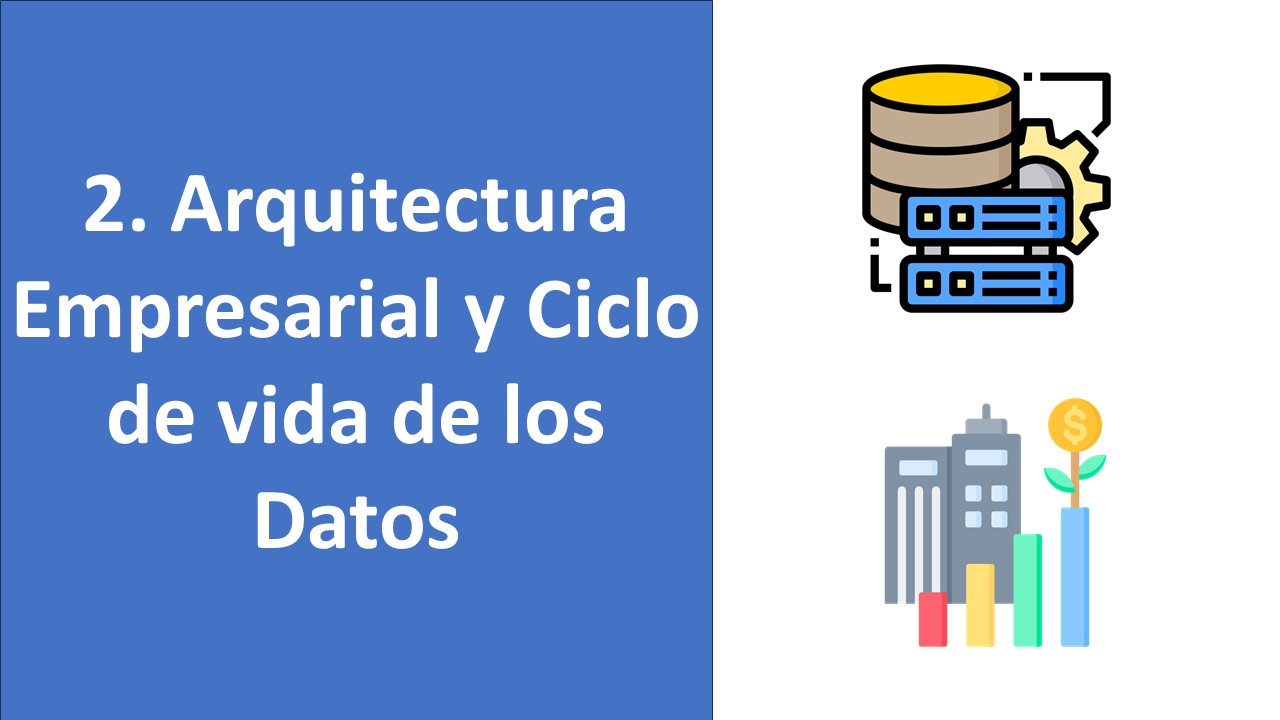
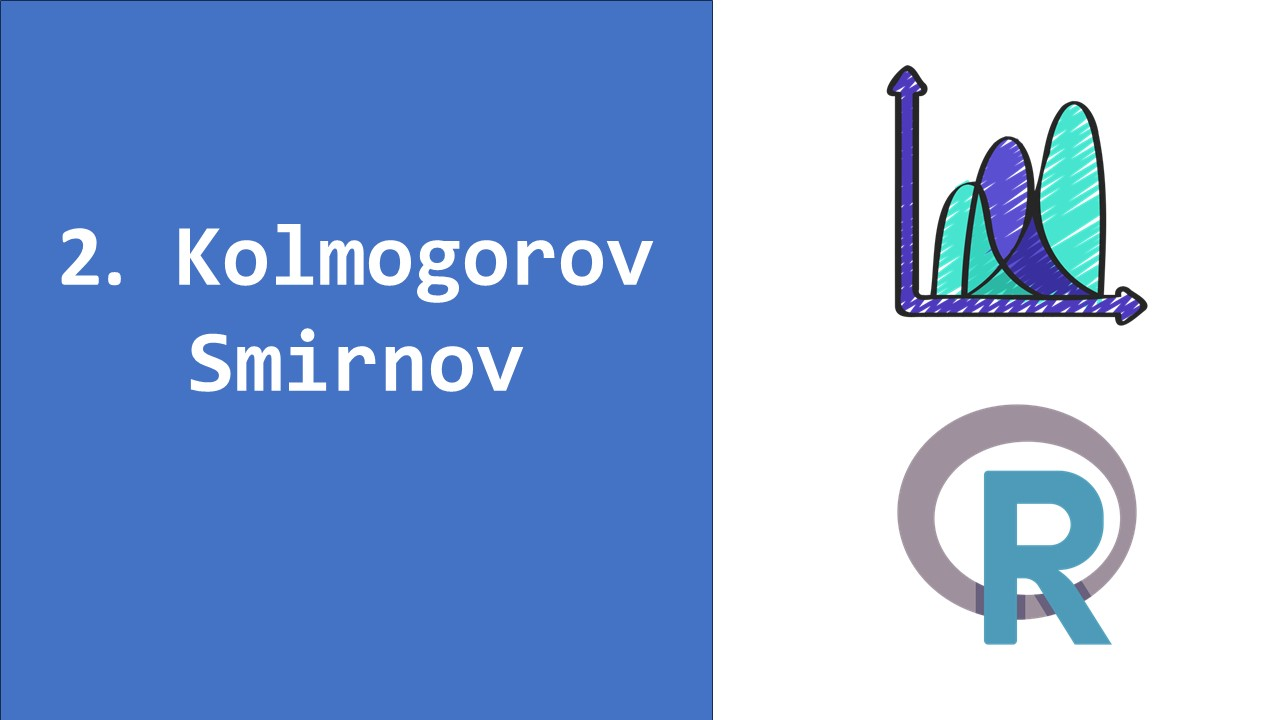
Clase 2

diff --git a/index.html b/index.html
@@ -56,7 +56,7 @@
         <div id="portfolio">
             <div class="container-fluid p-0">
                 <div class="row g-0">
-                    <div class="col-lg-4 col-sm-6">
+                    <!--<div class="col-lg-4 col-sm-6">
                         <a class="portfolio-box" href="#" onclick="redirectToGoogle();" title="Test del Signo y Wilcoxon">
                             <img class="img-fluid" src="assets/img/portfolio/thumbnails/1.jpg" alt="..." />
                             <div class="portfolio-box-caption">
@@ -64,17 +64,17 @@
                                 <div class="project-name">1. Test del signo y Wilcoxon</div>
                             </div>
                         </a>
-                    </div>
-                  <!-- <div class="col-lg-4 col-sm-6">
-                        <a class="portfolio-box" href="#" onclick="redirect2();" title="Ciclo de vida de datos">
+                    </div>-->
+                  <div class="col-lg-4 col-sm-6">
+                        <a class="portfolio-box" href="#" onclick="redirect2();" title=" Kolmogorov Smirnov">
                             <img class="img-fluid" src="assets/img/portfolio/thumbnails/2.jpg" alt="..." />
                             <div class="portfolio-box-caption">
-                                <div class="project-category text-white-50">BigData</div>
-                                <div class="project-name">2. Arquitectura empresarial y ciclo de vida de los datos</div>
+                                <div class="project-category text-white-50">No Paramétrica</div>
+                                <div class="project-name">2. Kolmogorov Smirnov</div>
                             </div>
                         </a>
                     </div>
-                      <div class="col-lg-4 col-sm-6">
+                       <!--<div class="col-lg-4 col-sm-6">
                         <a class="portfolio-box" href="#" onclick="redirect3();" title="Definiciones y GCP">
                             <img class="img-fluid" src="assets/img/portfolio/thumbnails/3.jpg" alt="..." />
                             <div class="portfolio-box-caption">
@@ -142,7 +142,7 @@
                 window.location.href = 'https://forms.gle/fofGYwcW56wMf9TJ9';
             }
             function redirect2() {
-                window.location.href = 'https://colab.research.google.com/github/jazaineam1/BigData2023_2/blob/main/2_BigData_v2.ipynb';
+                window.location.href = 'https://colab.research.google.com/github/jazaineam1/nopara/blob/main/Cuadernos/Kolmogorov_Smirnov.ipynb';
             }
             function redirect3() {
                 window.location.href = 'https://colab.research.google.com/github/jazaineam1/BigData2023_2/blob/main/Cuadernos/3_Definiciones_GCP.ipynb';
